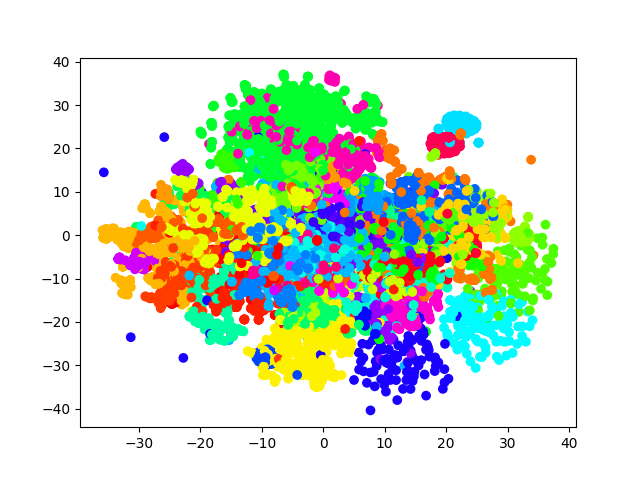
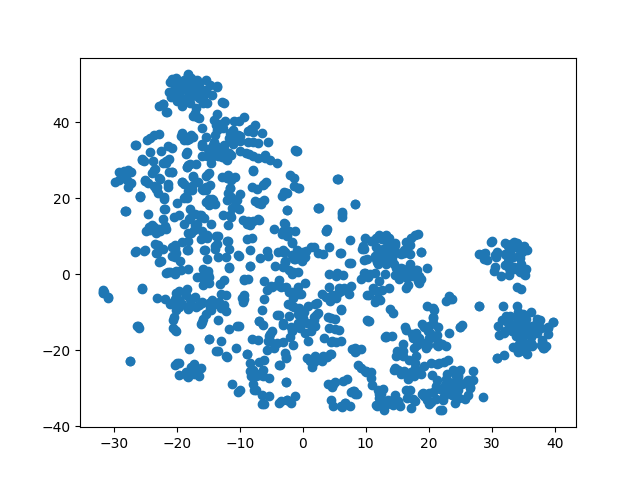
finished the filter

diff --git a/type_cluster.py b/type_cluster.py
@@ -8,13 +8,39 @@ from sklearn.cluster import AgglomerativeClustering
 import matplotlib.pyplot as plt
 from collections import Counter, OrderedDict
 import nltk
-from nltk.parse.stanford import StanfordDependencyParser
+# from nltk.parse.stanford import StanfordDependencyParser
 import numpy as np
 from gensim.models import word2vec
 from gensim.models import KeyedVectors
 import brewer2mpl
 import re
+from sklearn.metrics import pairwise_distances
+from collections import defaultdict
+import pickle
 
+
+# download the required resources
+# nltk.download('punkt')
+# nltk.download('averaged_perceptron_tagger')
+# nltk.download('dependency_treebank')
+
+# load the dependency parser
+dep_parser = nltk.parse.DependencyGraph
+
+# create a sentence to parse
+sentence = "The quick brown fox jumps over the lazy dog."
+
+# tokenize the sentence
+tokens = nltk.word_tokenize(sentence)
+
+# tag the tokens
+pos_tags = nltk.pos_tag(tokens)
+
+# # parse the sentence
+# dep_graph = dep_parser.parse(pos_tags)
+
+# # print the parsed dependencies
+# print(dep_graph.to_conll(10))
 
 
 # nltk.download('punkt')
@@ -24,18 +50,39 @@ import re
 
 
 def load_data(path):
+    # key means sth like /m/012qdp
+    # qid means id in wiki, like Q5
+    # idx means id in triples, int number, i-th entity
     with open(os.path.join(path, 'entity2wikidata.json'), 'r') as f:
-        json_dict = json.load(f)
+        entity2wiki = json.load(f)
+        key2qid = {}
+        for key, value in entity2wiki.items():
+            key2qid[key] = value['wikidata_id']
 
-    id2description = {}
-    descriptions = []  # list for computation
-    for k, v in json_dict.items():
+
+    with open(os.path.join(path, 'entity2id.txt'), 'r') as f:
+        lines = f.readlines()
+        key2idx = {} 
+        for line in lines:
+            key, idx = line.strip().split()
+            idx = int(idx)
+            key2idx[key] = idx
+        
+    idx2class = {}
+    class_names = []
+
+    with open(os.path.join(path, "entity_type.json"), 'r') as f:
+        qid2class = json.load(f)
+    for k, v in entity2wiki.items():
         # 可能存在none的情况，需要特殊处理，占比也不多
         des = v['description'] if v['description'] else ''
-        id2description[k] = des
-        descriptions.append(des)
-
-    return id2description, descriptions
+        wiki_id = v['wikidata_id']
+        class_name = qid2class[wiki_id]['parent_entity_name']
+        idx = key2idx[k]
+        idx2class[idx] = class_name
+        class_names.append(class_name)
+    
+    return idx2class, class_names 
 
 # 2. 获得embedding
 
@@ -75,10 +122,11 @@ def get_embedding(model, tokenizer, sentences):
 
 
 def tsne_visualize(sentence_embeddings, freq=None, labels=None):
+    # distance_matrix = pairwise_distances(sentence_embeddings, sentence_embeddings, metric='cosine', n_jobs=-1)
     palette = 'hsv'  # 调色板名称
     cmap = plt.get_cmap(palette)
     reducted_embeddings = TSNE(
-        n_components=3, learning_rate='auto', init='random', n_iter=1000).fit_transform(sentence_embeddings)
+        n_components=2, learning_rate='auto', init='random', n_iter=1000, metric='cosine').fit_transform(sentence_embeddings)
 
     fig = plt.figure()
     # ax = fig.add_subplot(projection='3d')
@@ -90,45 +138,100 @@ def tsne_visualize(sentence_embeddings, freq=None, labels=None):
     else:
         freq = np.sqrt(freq)
         freq = freq / np.max(freq)
-        ax.scatter(reducted_embeddings[:, 0], reducted_embeddings[:, 1], reducted_embeddings[:, 2], alpha=freq, c=labels)
+        ax.scatter(reducted_embeddings[:, 0], reducted_embeddings[:, 1], alpha=freq, c=labels)
         
     plt.savefig('vis.png')
     return
 
 def is_noun(pos): return pos == 'NN' or pos == 'NNS'
 
+def generate_relation_filter(triples, id2class, n_rel):
+    # generate the relation filter based on entity class (like human).
+
+    class_filte_relation = defaultdict(set)
+    for h, r, t in triples:
+        try:
+            # there may have some entity miss the corresponding descriptions
+            h_class, t_class = id2class[h], id2class[t]
+            class_filte_relation[h_class].add(r)
+            class_filte_relation[t_class].add(r + n_rel)
+        except:
+            continue
+    
+    return class_filte_relation
+
+        
+
+    
 if __name__ == "__main__":
 
     path = 'data/FB15K/'
-    id2description, descriptions = load_data(path)
+    idx2description, descriptions = load_data(path)
 
-    words = []
-    lemmatizer = nltk.stem.wordnet.WordNetLemmatizer()
-    for des in descriptions:
-        # new_words = des.split()
-        # new_words = [word.strip(",.'") for word in new_words]
-        des = des.replace('-', ' ')
-        des = des.replace('–', ' ') # data is not clean
-        des = des.replace('/', ' ')
-        tokenized = nltk.word_tokenize(des)
-        # modified = []
-        # if have both, like singer, song writer, we only remain the last one, considering the case like co-founder
-        # for word in tokenized:
-        #     word = word.strip('–/') # contains 1999-, and/or
-        #     word = re.split('–/', word)
-        #     if len(word) > 1:
-        #         print(word)
-        #         if re.match(r'\D*\d+', word):
-        #             continue # filter out all numbers
-        #     modified.append(word[-1])
-        nouns = [word for (word, pos) in nltk.pos_tag(tokenized) if is_noun(pos)]
-        nouns = [lemmatizer.lemmatize(word, 'n') for word in nouns]
+    # filters
+    # 尝试只保留第一个名词
+    # filted = []
+    # for description in descriptions:
+    #     if not description:
+    #         filted.append('') # none
+    #     else:
+    #         words = description.split() 
+    #         pos_tags = nltk.pos_tag(words)
+    #         filted_sent=  [word for word, pos in pos_tags if pos == 'NN']
+    #         filted.append(' '.join(filted_sent))
 
-        words.extend(nouns)
+    
 
-    counter = Counter(words)
-    word2count = OrderedDict(counter.most_common())
-    words = list(word2count.keys())
+    # words = []
+    # lemmatizer = nltk.stem.wordnet.WordNetLemmatizer()
+    # for des in descriptions:
+    #     # new_words = des.split()
+    #     # new_words = [word.strip(",.'") for word in new_words]
+    #     des = des.replace('-', ' ')
+    #     des = des.replace('–', ' ') # data is not clean
+    #     des = des.replace('/', ' ')
+    #     tokenized = nltk.word_tokenize(des)
+    #     # modified = []
+    #     # if have both, like singer, song writer, we only remain the last one, considering the case like co-founder
+    #     # for word in tokenized:
+    #     #     word = word.strip('–/') # contains 1999-, and/or
+    #     #     word = re.split('–/', word)
+    #     #     if len(word) > 1:
+    #     #         print(word)
+    #     #         if re.match(r'\D*\d+', word):
+    #     #             continue # filter out all numbers
+    #     #     modified.append(word[-1])
+    #     nouns = [word for (word, pos) in nltk.pos_tag(tokenized) if is_noun(pos)]
+    #     nouns = [lemmatizer.lemmatize(word, 'n') for word in nouns]
+
+        # words.extend(nouns)
+
+    # counter = Counter(words)
+
+    # test cover rate
+    with open('data/FB15K/active_learning/0.9/init_triples.txt', 'r') as f:
+        init_triples = [list(map(lambda x: int(x), line.strip().split())) for line in f.readlines()]
+        
+    with open('data/FB15K/active_learning/0.9/unexplored_triples.txt', 'r') as f:
+        unexplored_triples = [list(map(lambda x: int(x), line.strip().split())) for line in f.readlines()]
+
+    init_filter = generate_relation_filter(init_triples, idx2description, 1345)
+    all_filter = generate_relation_filter(init_triples + unexplored_triples, idx2description, 1345)
+    
+    # 统计一下init_filter可以cover多少
+    count = 0
+    for triple in unexplored_triples:
+        h, r, t = triple
+        try:
+            if r in init_filter[idx2description[h]] or r + 1345 in init_filter[idx2description[t]]:
+                count += 1
+        except:
+            continue
+            count += 1 
+    print(count / len(unexplored_triples))
+    counter = Counter(descriptions)
+    des2count = OrderedDict(counter.most_common())
+    descriptions = list(des2count.keys())
 
     model_name = 'sentence-transformers/all-MiniLM-L6-v2'
     tokenizer, model = load_model(model_name)
@@ -171,6 +274,13 @@ if __name__ == "__main__":
     des_embeddings = des_embeddings.detach().cpu().numpy()
     clustering = AgglomerativeClustering(n_clusters=50).fit(des_embeddings)
     labels = clustering.labels_
+    
+    clusters = defaultdict(list)
+    for i in range(len(descriptions)):
+        c = labels[i]
+        clusters[c].append(descriptions[i])
+    
+    labels = None
     tsne_visualize(des_embeddings, None, labels)
 
     print('over')
